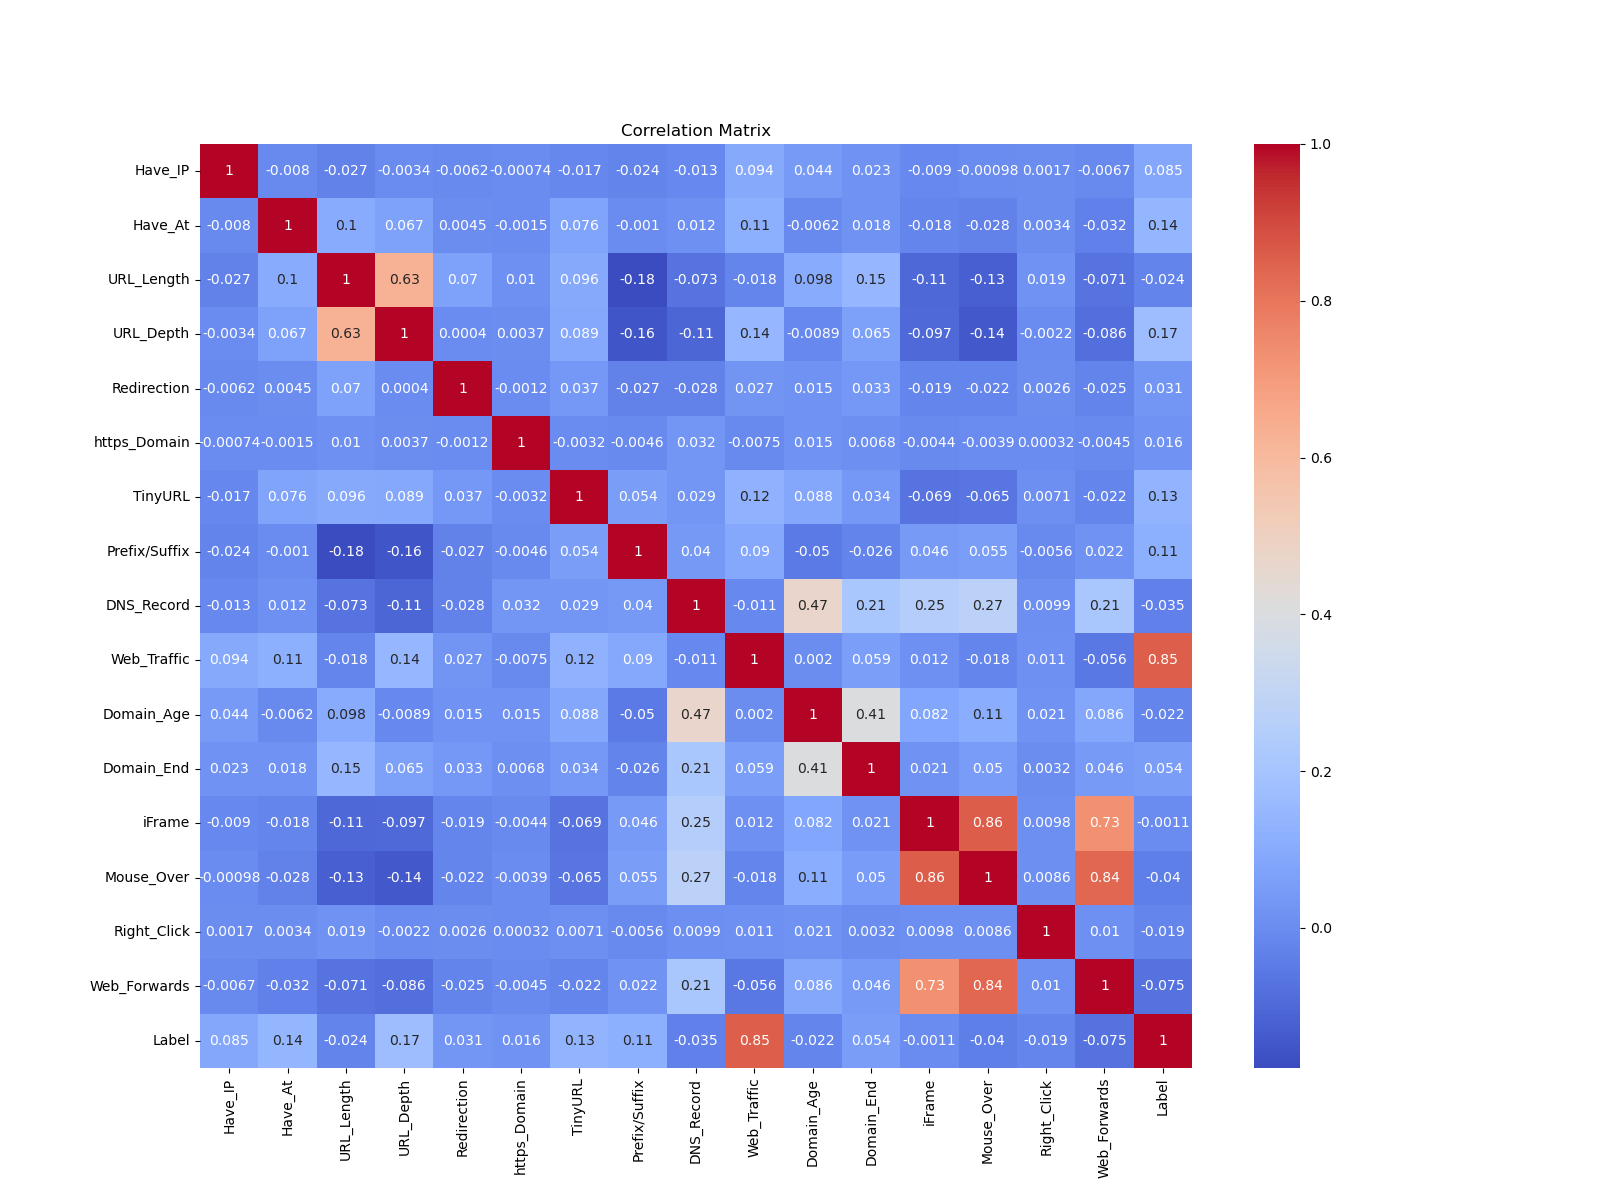
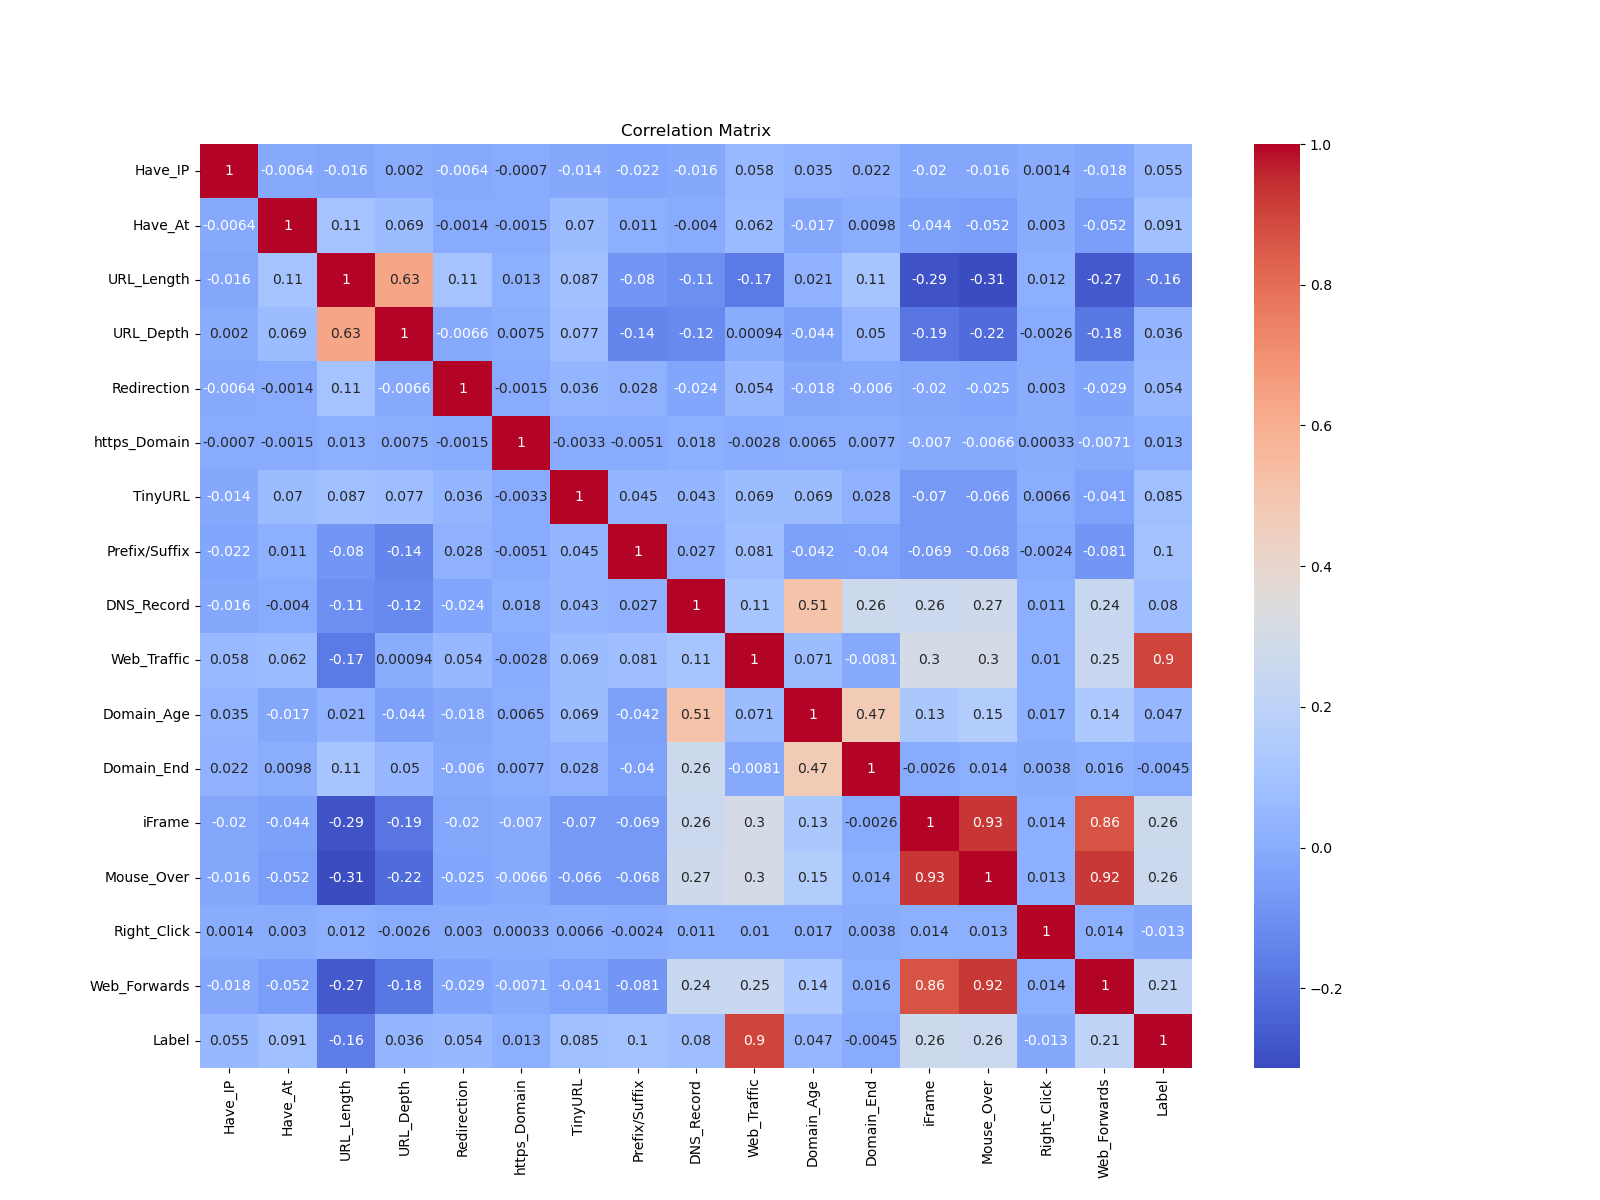
update

diff --git a/main.py b/main.py
@@ -257,35 +257,35 @@ def histogram():
     # Save the figure
     plt.savefig('upload/histogram.png')
     
-# def drawHeatMap():
-#     legit_df = pd.read_csv('data/legitimate_data.csv')
-#     phish_df = pd.read_csv('data/phishing_data.csv')
+def drawHeatMap():
+    legit_df = pd.read_csv('data/legitimate_data.csv')
+    phish_df = pd.read_csv('data/phishing_data.csv')
     
-#     combined_df = pd.concat([legit_df, phish_df])
+    combined_df = pd.concat([legit_df, phish_df])
 
-#     # Tính toán ma trận tương quan, bỏ cột 'Domain'
-#     corr = combined_df.drop(columns=['Domain']).corr()
+    # Tính toán ma trận tương quan, bỏ cột 'Domain'
+    corr = combined_df.drop(columns=['Domain']).corr()
 
-#     # Kiểm tra và tạo thư mục "upload" nếu chưa tồn tại
-#     output_dir = 'upload'
-#     if not os.path.exists(output_dir):
-#         os.makedirs(output_dir)
+    # Kiểm tra và tạo thư mục "upload" nếu chưa tồn tại
+    output_dir = 'upload'
+    if not os.path.exists(output_dir):
+        os.makedirs(output_dir)
 
-#     # Vẽ heatmap của ma trận tương quan
-#     plt.figure(figsize=(16, 12))
-#     sns.heatmap(corr, annot=True, cmap='coolwarm')
-#     plt.title('Correlation Matrix')
+    # Vẽ heatmap của ma trận tương quan
+    plt.figure(figsize=(16, 12))
+    sns.heatmap(corr, annot=True, cmap='coolwarm')
+    plt.title('Correlation Matrix')
 
-#     # Lưu biểu đồ vào file trong thư mục "upload"
-#     output_path = os.path.join(output_dir, 'correlation_matrix.png')
-#     plt.savefig(output_path)
+    # Lưu biểu đồ vào file trong thư mục "upload"
+    output_path = os.path.join(output_dir, 'correlation_matrix.png')
+    plt.savefig(output_path)
 
 
 class DataVisualAdmin(admin.PageAdmin):
     page_schema = PageSchema(label="Data visualization", icon="fa fa-pie-chart", url="/data-visualization", isDefaultPage=True, sort=100)
     page_path = "data-visualization"
     histogram()
-    # drawHeatMap()
+    drawHeatMap()
     async def get_page(self, request: Request) -> Page:
         page = await super().get_page(request)
         
